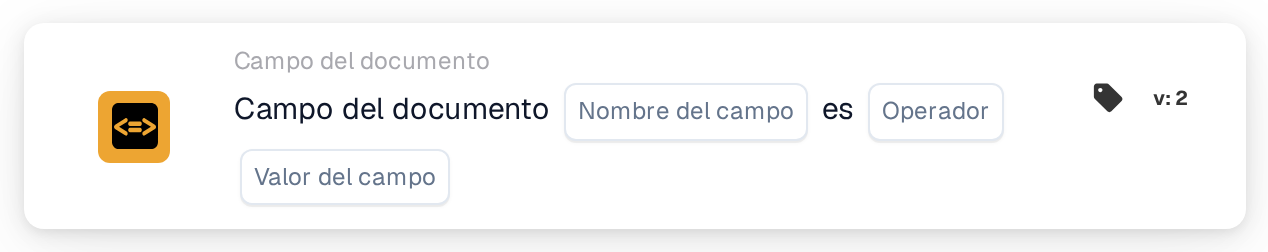
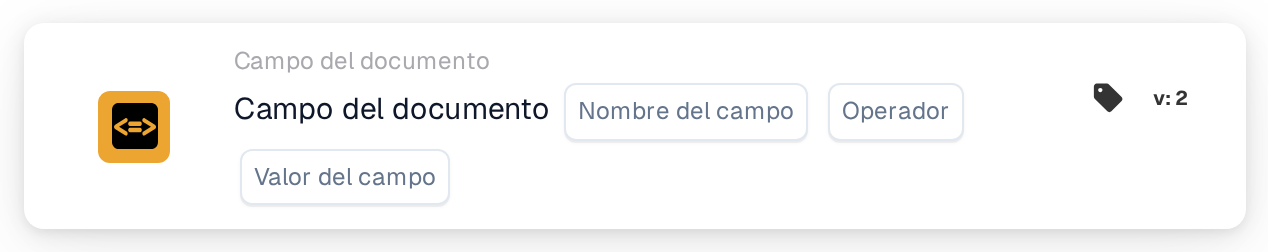
[Documentation_Workflow_Cards] [DRFS-881] document new docfield operators is one of and regex

diff --git a/public_docs/administration-and-setup/workflow/and/document-field/docfield-is.md b/public_docs/administration-and-setup/workflow/and/document-field/docfield-is.md
@@ -28,39 +28,94 @@ Por ejemplo, una segunda aprobación para facturas grandes: Importe total mayor 
 
 ## **Propósito:**
 
-Esta tarjeta de flujo de trabajo está diseñada para automatizar acciones comparando el valor de un campo de documento especificado con un valor o condición de referencia. Garantiza una toma de decisiones dinámica y precisa en los flujos de trabajo basada en la validación de los datos del documento.
+Esta tarjeta compara un campo del documento con un valor que usted introduce en la tarjeta. Úsela para enviar los documentos por caminos distintos según el valor de un campo, por ejemplo una segunda aprobación para facturas grandes o una ruta especial para unos pocos proveedores.
+
+La tarjeta dice: **Campo del documento** [Field Name] [Operator] [Field Value].
 
 ## **Componentes de la tarjeta:**
 
-1. **Nombre de campo**
-   * **Descripción:** Especifica el nombre del campo del documento que se evaluará.
-   * **Detalle:** Debe coincidir con el identificador exacto del campo dentro del documento.
-2. **Operadores**
-   * **Descripción:** Define el tipo de comparación que se realizará entre el valor del campo y el valor de referencia.
-   * **Opciones:**
-     * **Igual a (=):** Comprueba si el valor del campo coincide con el valor de referencia.
-     * **No iguales (≠):** Garantiza que el valor del campo difiera del valor de referencia.
-     * **Mayor que (>):** Confirma que el valor del campo es mayor que el valor de referencia.
-     * **Mayor o igual (≥):** Valida que el valor del campo sea igual o mayor que el valor de referencia.
-     * **Menor que (<):** Comprueba si el valor del campo es menor que el valor de referencia.
-     * **Menos o Igual (≤):** Garantiza que el valor del campo sea menor o igual que el valor de referencia.
+1. **Field Name**
+   * El campo del documento que se comprueba, elegido entre los campos del tipo de documento.
+2. **Operator**
+   * Cómo se compara el valor del campo con el **Field Value**. Qué operadores tienen sentido depende del tipo del campo, consulte **Operadores** más abajo.
+3. **Field Value**
+   * El valor con el que se compara. Según el operador, es un valor único, una lista separada por comas o una expresión regular.
 
-## **Funcionalidad:**
+## **Operadores:**
 
-* **Evaluación de la condición:** El sistema comprueba si el valor del campo del documento, en relación con su columna asociada, cumple la condición de comparación especificada por el operador y el valor de referencia.
-* **Ejecución de la acción:**
-  * **Condición verdadera:**\
-    Si el valor del campo del documento cumple la condición especificada (p. ej., es igual al valor de referencia), el sistema dispara las acciones asociadas. Estas podrían incluir actualizar registros, avanzar el flujo de trabajo o generar notificaciones.
-  * **Condición falsa:**\
-    Si el valor del campo del documento no cumple la condición especificada, se ejecutan acciones alternativas o ninguna acción, según la configuración del flujo de trabajo.
+| Operador | Se cumple cuando | Tipos de campo |
+| --- | --- | --- |
+| **Es igual a** (=) | el valor del campo es igual al Field Value | texto, número, importe, fecha |
+| **No es igual a** (≠) | el valor del campo es distinto del Field Value | texto, número, importe, fecha |
+| **Mayor Que** (>) | el valor del campo es mayor que el Field Value | número, importe, fecha |
+| **Mayor o igual que** (≥) | el valor del campo es mayor o igual que el Field Value | número, importe, fecha |
+| **Menor que** (<) | el valor del campo es menor que el Field Value | número, importe, fecha |
+| **Menos o igual** (≤) | el valor del campo es menor o igual que el Field Value | número, importe, fecha |
+| **Es uno de** | el valor del campo es igual a un elemento de una lista separada por comas | texto |
+| **No es uno de** | el valor del campo no es igual a ninguno de los elementos de la lista | texto |
+| **Coincide con regex** | la expresión regular se encuentra en el valor del campo | texto, número, importe, fecha |
+| **No coincide con regex** | la expresión regular no se encuentra en el valor del campo | texto, número, importe, fecha |
+
+Esta tarjeta no admite campos booleanos (casillas de verificación). Para ellos, use **Checkbox is checked**.
+
+### Es igual a y No es igual a en campos de texto
+
+El texto se compara sin tener en cuenta las mayúsculas, y un espacio cuenta igual que un guion bajo: `Acme Freight` es igual a `acme_freight`. Los espacios al principio y al final se ignoran.
+
+### Es uno de e No es uno de
+
+Use estos operadores para comprobar un campo de texto frente a varios valores a la vez, por ejemplo una lista de ID de proveedor.
+
+* Introduzca los valores como lista separada por comas: `40321,40322,40388`.
+* El valor del campo tiene que ser exactamente igual a un elemento. Un valor parcial no coincide: `4032` no está en `40321,40322,40388`, y tampoco un valor más largo como `403210`.
+* Las mayúsculas no importan, y un espacio cuenta igual que un guion bajo. Los espacios alrededor de los elementos se ignoran, y los elementos vacíos, como el de `a,,b`, se omiten.
+* Para usar una coma dentro de un valor, escríbala como `\,`. `Acme Freight\, LLC,Riverside Supply` es una lista de dos elementos: `Acme Freight, LLC` y `Riverside Supply`.
+* Un valor de campo vacío no está en ninguna lista. Entonces **Es uno de** no se cumple e **No es uno de** se cumple.
+* Estos operadores solo funcionan con campos de texto. En un campo de número, importe o fecha, o con una lista sin ningún elemento (por ejemplo, solo comas), la tarjeta termina con un error.
+
+### Coincide con regex y No coincide con regex
+
+Use estos operadores cuando decide un patrón, por ejemplo "empieza por" o "consta solo de dígitos".
+
+* El **Field Value** es una expresión regular con sintaxis de Python. Se busca en cualquier parte del valor del campo: `Freight` coincide con `Acme Freight, LLC`.
+* Use `^` y `$` para comprobar el valor completo: `^33` significa "empieza por 33", y `^(40321|40322|40388)$` significa "exactamente uno de estos valores".
+* El patrón distingue entre mayúsculas y minúsculas. Empiécelo con `(?i)` para ignorar las mayúsculas: `(?i)freight` también coincide con `Acme Freight, LLC`.
+* `^` y `$` se refieren al valor completo del campo. Empiece el patrón con `(?m)` para aplicarlos a cada línea de un valor con varias líneas.
+* El patrón se usa exactamente como lo escribe. No se recortan espacios y se conservan las mayúsculas, de modo que `\D` (cualquier carácter que no sea un dígito) mantiene su significado, y un patrón que consta de un solo espacio busca un espacio.
+* Los caracteres con un significado especial en las expresiones regulares deben escaparse para buscarlos literalmente: `\(copy\)` coincide con el texto `(copy)`, mientras que `(copy)` es un grupo que encuentra la palabra `copy`.
+* Los números, importes y fechas se comparan como el texto con el que están almacenados: un importe de 997.60 coincide con `^997\.60$`.
+* Un valor de campo vacío se compara como texto vacío, por lo que `^$` coincide con él.
+* Un patrón no válido, por ejemplo `(20` con un paréntesis que falta, termina la tarjeta con un error. Lo mismo ocurre cuando un patrón tarda demasiado con un valor (más de 0,05 segundos), lo que solo sucede con patrones mal construidos como `(a|aa)+$`. En ambos casos la tarjeta no se cumple ni deja de cumplirse, de modo que **No coincide con regex** nunca pasa por un patrón defectuoso.
+
+## **Funcionamiento de la tarjeta:**
+
+* **Campo que no está en el documento:** si el documento no tiene ningún campo con el nombre elegido, la tarjeta se detiene e informa de que no se encontró el campo, sea cual sea el operador.
+* **Condición cumplida:** el Workflow continúa con la siguiente tarjeta (en el Advanced Workflow, por la salida de éxito).
+* **Condición no cumplida:** el Workflow se detiene en esta tarjeta (en el Advanced Workflow, toma la salida de condición no cumplida).
+* **Error:** un operador que no corresponde al tipo de campo, un Field Value que falta, una lista vacía o un patrón inutilizable terminan la tarjeta con un error. El registro de la tarjeta muestra el motivo.
 
 ## **Configuración:**
 
-* El usuario selecciona el nombre del campo del documento pertinente y elige el operador del menú desplegable. A continuación, el usuario especifica el valor del campo de referencia para completar la configuración.
+Elija el campo en **Field Name**, el operador en **Operator** e introduzca el valor en **Field Value**. Para números e importes, introduzca el valor sin símbolo monetario y con punto decimal, por ejemplo `1000.50`.
+
+Para probar una configuración sin esperar a un documento, abra el menú de la tarjeta en el Workflow Builder, elija **Test Card**, seleccione un documento y pulse **Test on Document**. El registro de la tarjeta muestra el valor del campo, el operador y el resultado.
+
+## **Ejemplos:**
+
+| Objetivo | Field Name | Operator | Field Value | Valor del campo en el documento | Resultado |
+| --- | --- | --- | --- | --- | --- |
+| Segunda aprobación para facturas grandes | Importe total | Mayor Que | `10000` | 12500.00 | se cumple |
+| Dirigir a unos pocos proveedores | ID de proveedor | Es uno de | `40321,40322,40388` | 40322 | se cumple |
+| | | | | 4032 | no se cumple |
+| Omitir un proveedor con una coma en su nombre | Nombre del proveedor | No es uno de | `Acme Freight\, LLC` | Acme Freight, LLC | no se cumple |
+| Números de pedido que empiezan por 33 | Número de pedido | Coincide con regex | `^33` | 33012 | se cumple |
+| | | | | 13301 | no se cumple |
+| Referencia con letras | Referencia | Coincide con regex | `\D` | AB-1204 | se cumple |
+| Copias de facturas | Número de factura | No coincide con regex | `\(copy\)` | INV-1204 (copy) | no se cumple |
 
 ## **Conclusión:**
 
-La tarjeta de flujo de trabajo "DocField Comparison Validation" es una herramienta robusta para el procesamiento dinámico de documentos. Al automatizar acciones según las comparaciones de campos, esta tarjeta agiliza los flujos de trabajo, mejora la precisión y facilita la toma de decisiones basada en datos.
+La tarjeta comprueba un único campo del documento frente a un valor, una lista o un patrón. Use **Es uno de** para listas fijas de valores y **Coincide con regex** para patrones como prefijos o formatos.
 
 <!-- workflow-card-practical-example-20261021 -->
 

diff --git a/public_docs/administration-and-setup/workflow/masterclass/field-conditions.md b/public_docs/administration-and-setup/workflow/masterclass/field-conditions.md
@@ -62,7 +62,7 @@ Un valor `"1000.01"` en un campo AMOUNT no es lo mismo que los mismos caracteres
 
 ## Tarjetas y parámetros de ejemplo
 
-Estos valores describen parámetros de tarjetas individuales, no un workflow completo importable. Sustituya YOUR\_\* por sus propias selecciones de prueba. El diseñador gestiona el ID oculto del llamante. Catálogo: Dev, DocFlow 2.10.38, 21 de octubre de 2026; compruebe las versiones disponibles y los permisos en su propia organización.
+Estos valores describen parámetros de tarjetas individuales, no un Workflow completo importable. Sustituya YOUR\_\* por sus propias selecciones de prueba. El diseñador gestiona el ID oculto del llamante. Catálogo: Dev, DocFlow 2.10.38, 21 de octubre de 2026; compruebe las versiones disponibles y los permisos en su propia organización.
 
 ### `condition_docfield_status` · v2
 
@@ -79,7 +79,7 @@ Identidad: `1c35a5a0-1592-446c-9a61-6abb14d27450`
 
 | Parámetro | Tipo / opciones | Ejemplo |
 | --- | --- | --- |
-| `operator` | `eq / neq / gt / ge / lt / le` | `"gt"` |
+| `operator` | `eq / neq / gt / ge / lt / le / cont / not_cont / matches_regex / not_matches_regex` | `"gt"` |
 | `field_name` | `field_name:str` | `"total_amount"` |
 | `field_value` | `field_value:str` | `"1000"` |
 
